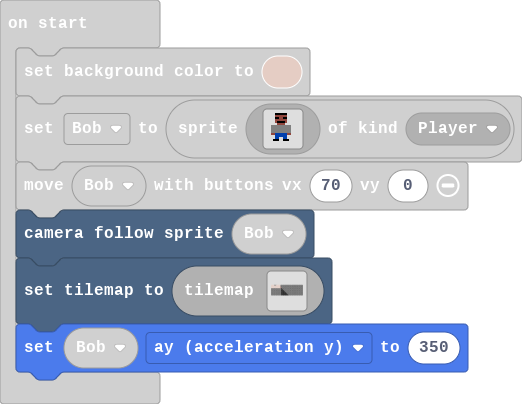
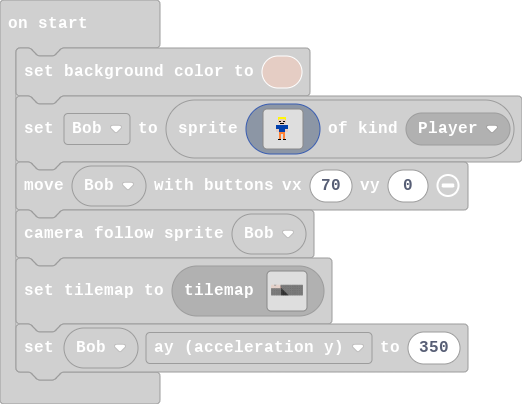
Update main.blocks, main.ts

Changed region(s): [[0.0307, 0.505, 0.9195, 0.9505], [0.4598, 0.2376, 0.613, 0.3861]]

diff --git a/main.ts b/main.ts
@@ -6,22 +6,38 @@ controller.A.onEvent(ControllerButtonEvent.Pressed, function () {
 let Bob: Sprite = null
 scene.setBackgroundColor(13)
 Bob = sprites.create(img`
-    . . . . f f f f f f . . . . . . 
-    . . . . e e e e e e . . . . . . 
-    . . . . f f e e f f . . . . . . 
-    . . . . e e e e e e . . . . . . 
-    . . . . e f f f f e . . . . . . 
-    . . . . . e e e e . . . . . . . 
-    . . c c c c c c c c c c . . . . 
-    . . c c c c c c c c c c . . . . 
-    . . c c c c c c c c c c . . . . 
-    . . c c c c c c c c c c . . . . 
-    . . e e 8 8 8 8 8 8 e e . . . . 
-    . . . . 8 8 8 8 8 8 . . . . . . 
-    . . . . 8 8 . . 8 8 . . . . . . 
-    . . . f f f . . f f f . . . . . 
-    . . . . . . . . . . . . . . . . 
-    . . . . . . . . . . . . . . . . 
+    ................
+    ................
+    ................
+    ................
+    ...55555555.....
+    ...55555555.....
+    ...5dddddd5.....
+    ...dddddddd.....
+    ...dffddffd.....
+    ...dddddddd.....
+    ...ddffffdd.....
+    .....dddd.......
+    .888888888888...
+    .888888888888...
+    .888888888888...
+    .888888888888...
+    .ddd888888ddd...
+    .ddd888888ddd...
+    .ddd888888ddd...
+    ....444444......
+    ....444444......
+    ....44..44......
+    ....44..44......
+    ....44..44......
+    ....44..44......
+    ....44..44......
+    ...fff..fff.....
+    ................
+    ................
+    ................
+    ................
+    ................
     `, SpriteKind.Player)
 controller.moveSprite(Bob, 70, 0)
 scene.cameraFollowSprite(Bob)
